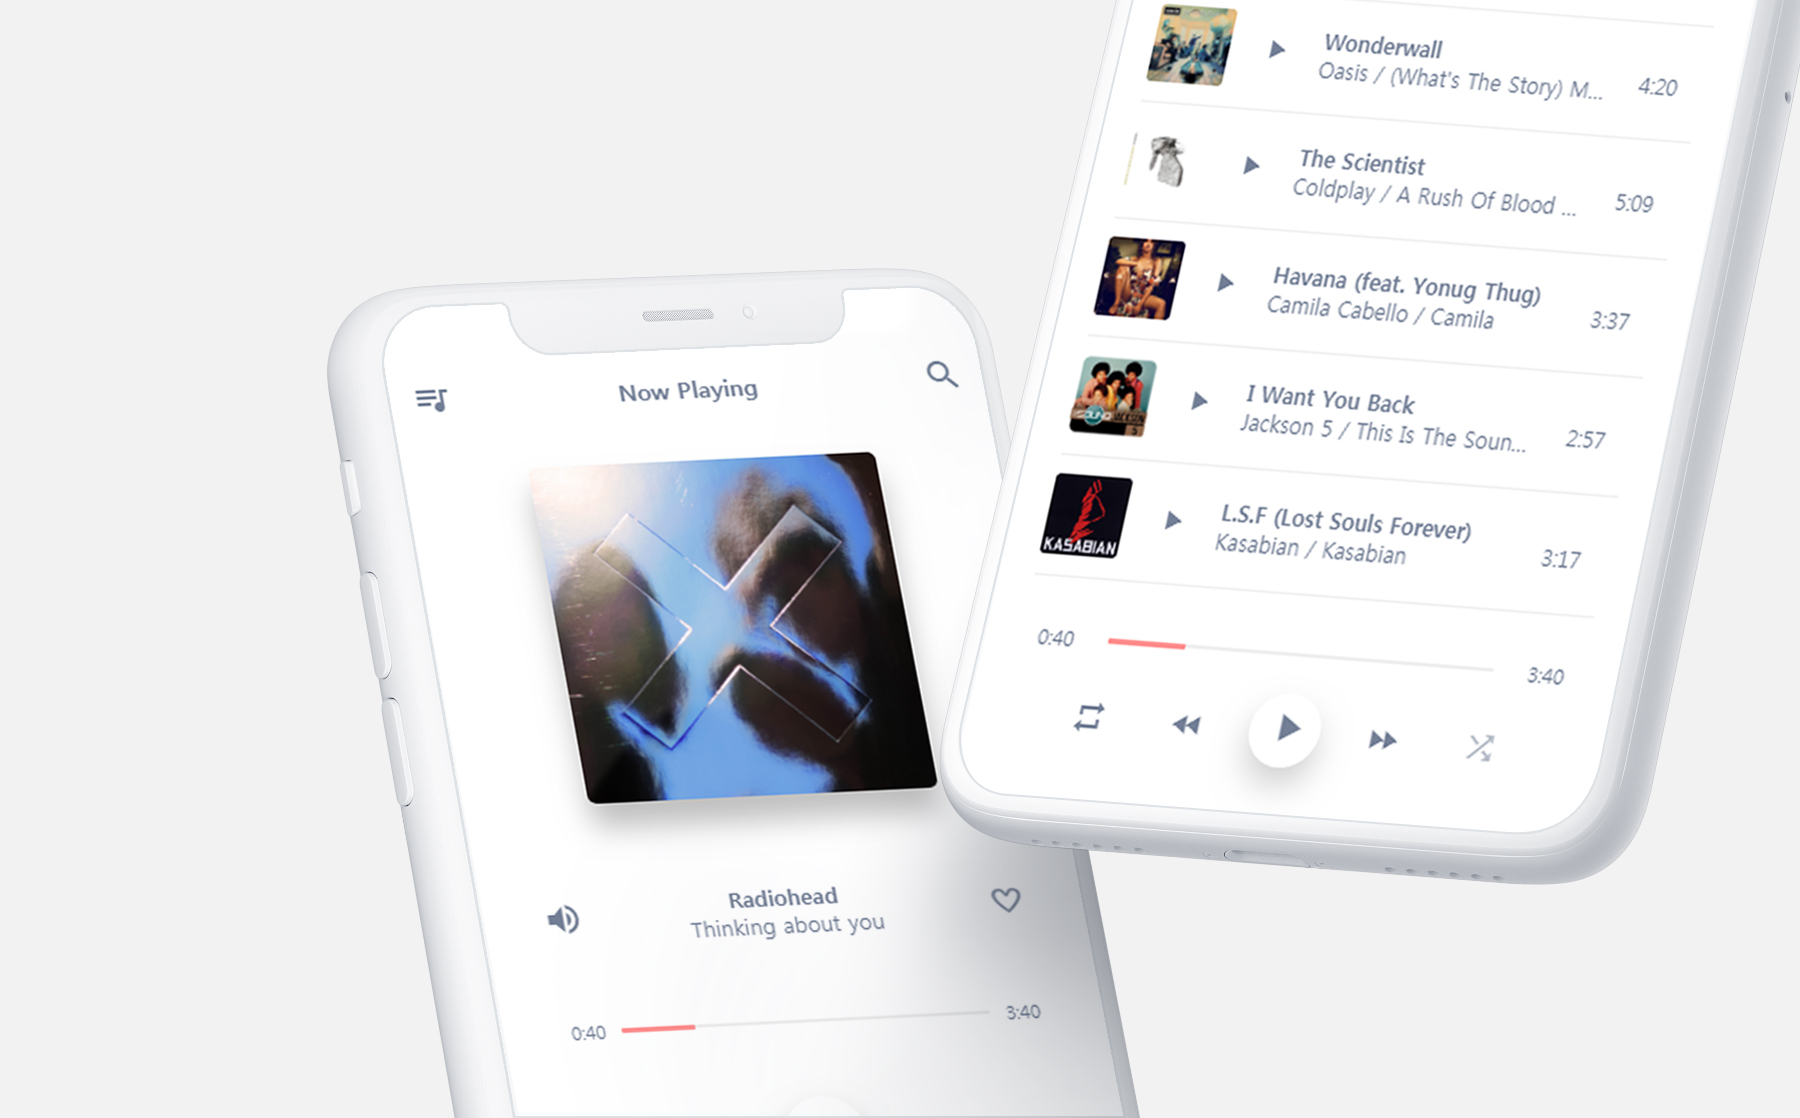
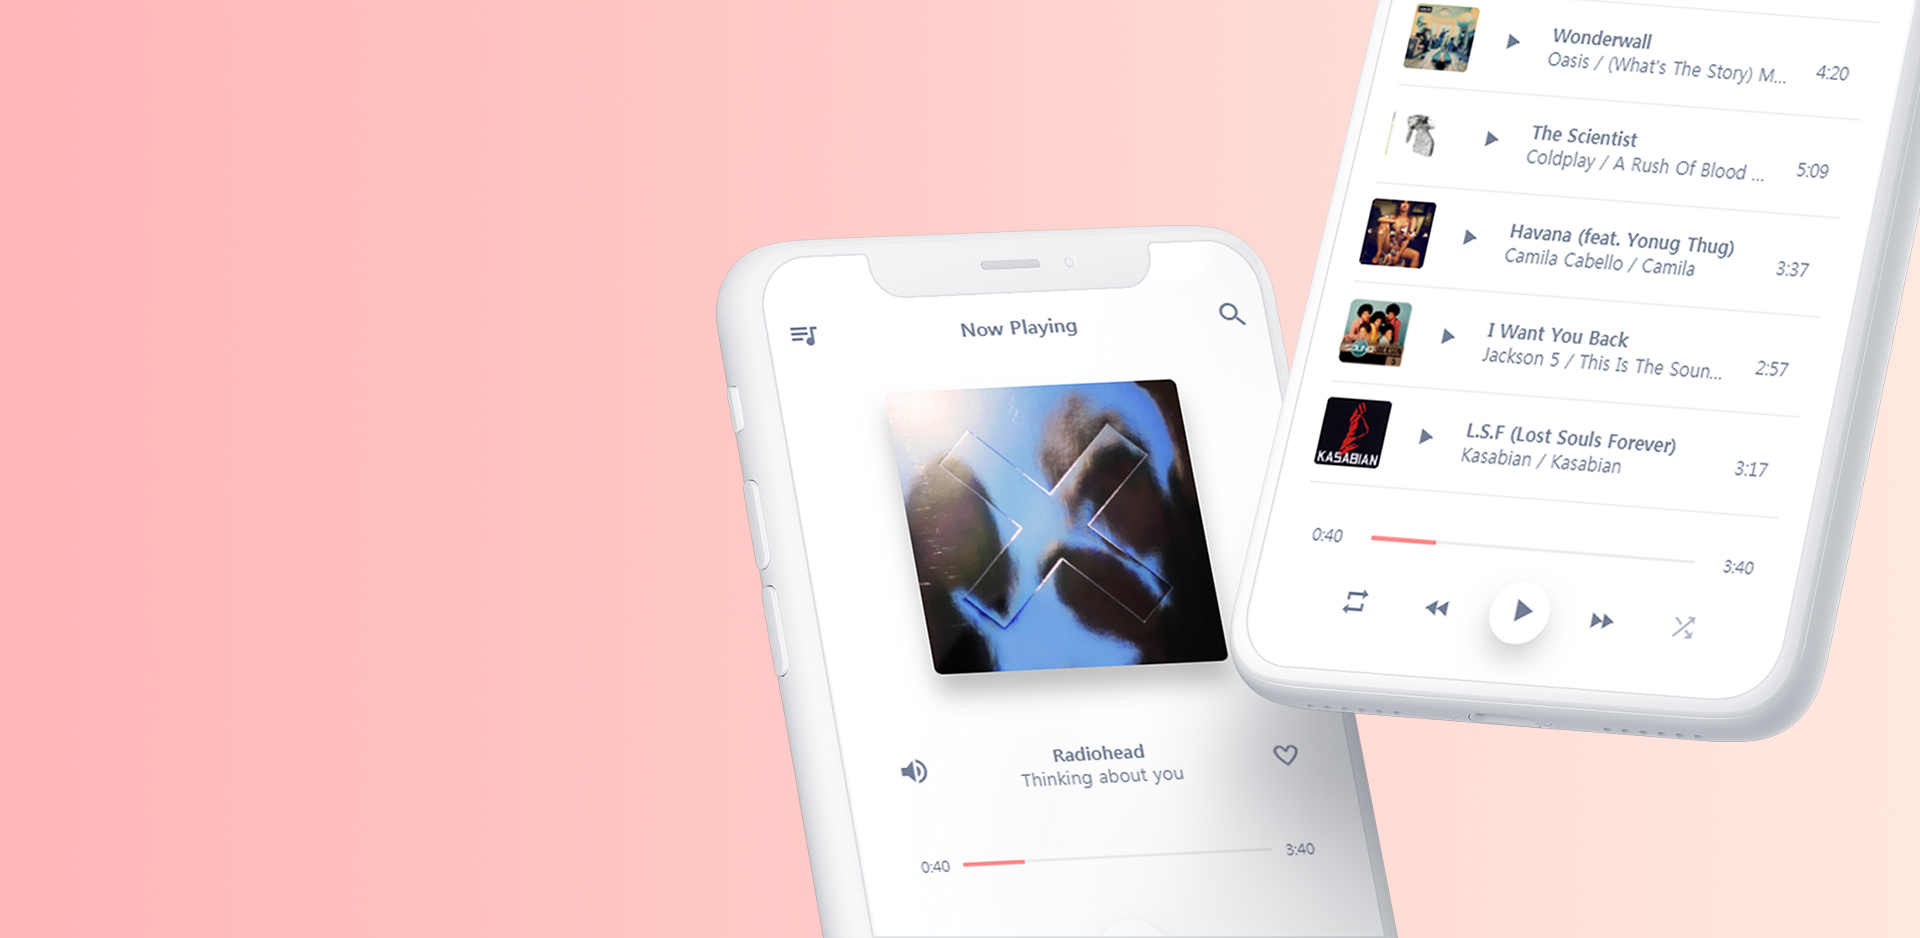
버튼 수정

diff --git a/css/portfolio.css b/css/portfolio.css
@@ -85,46 +85,73 @@ flex-direction: column;
   text-align: right;
   padding: 0 20px;
 }
-.overview-btn .menu {
+.more-link {
   position: relative;
-  border-top: 1px solid #e5e5e5;
-  padding-top: 20px;
-}
-.overview-btn .menu .menu-item {
-  float: none;
   display: inline-block;
-
+  cursor: pointer;
+  height: 50px;
+  line-height: 50px;
+  padding-right: 25px;
 }
-.overview-btn .menu .menu-item-name {
-  font-size: 13px;
+.more-link em {
+  font-style: normal;
+  margin-right: 8px;
+  transition: all .3s;
+  -webkit-transition: all .3s;
 }
-.overview-btn .menu .menu-item-name i { padding-left: 5px; font-size: 12px;}
-
-.btn-arrow i {
-  font-size: 11px;
-  background: #fb94a5;
-  color: #fff;
-  width: 23px;
-  height: 23px;
-  line-height: 23px;
-  border-radius: 50%;
-  text-align: center;
-  overflow: hidden;
-    display: inline-block;
-    position: absolute;
-    right: 0;
-    top: 50%;
-    margin-top: -14px;
-    height: 25px;
-    line-height: 25px;
-    width: 24px;
-    border-radius: 50px;
-    transition: all 0.33s cubic-bezier(0.12,0.75,0.4,1);
-    -webkit-transition: all 0.33s cubic-bezier(0.12,0.75,0.4,1);
-    box-shadow: 0px 9px 20px #ffdbdb;
-    transition: all .3s;
+.arrow {
+  width: 18px;
+  height: 16px;
+  display: inline-block;
+  position: relative;
+  top: 2px;
 }
-
+.arrow .line {
+  width: 18px;
+  height: 2px;
+  background: #ff1053;
+  left: 0;
+  backface-visibility: hidden;
+  letter-spacing: 0;
+  display: block;
+  content: ' ';
+  z-index: 100;
+  position: absolute;
+  top: 53%;
+  opacity: 0;
+  right: -10px;
+  cursor: pointer;
+  transform: translateY(-50%) translateX(-20px) translateZ(0);
+  -webkit-transform: translateY(-50%) translateX(-20px) translateZ(0);
+  transition: all .3s;
+  -webkit-transition: all .3s;
+  }
+.arrow i {
+  display: inline-block;
+  line-height: 50px;
+  font-size: 14px;
+  height: 50px;
+  color: #ff1053;
+  margin-left: 15px;
+  position: absolute;
+  right: 9px;
+  top: 51%;
+  -ms-transform: translateY(-50%);
+  -webkit-transform: translateY(-50%) translateZ(0);
+  transform: translateY(-50%) translateZ(0);
+  transition: all .3s;;
+  -webkit-transition: all .3s;
+}
+.more-link:hover em { color: #ff1053;}
+.more-link:hover .arrow .line {
+  opacity: 1;
+  transform: translateY(-50%) translateX(0px);
+  -webkit-transform: translateY(-50%) translateX(0px);
+}
+.more-link:hover .arrow i {
+  transform: translateX(12px) translateY(-50%);
+  -webkit-transform: translateX(12px) translateY(-50%);
+}
 
 
 /* 아이콘 디자인 */

diff --git a/sub-player.html b/sub-player.html
@@ -67,14 +67,13 @@
       </ul>
     </div>
 
-    <section class="sub-header" style="background-color: #f2f2f2;">
+    <section class="sub-header" style="background-image: url(images/thumb-player.jpg);">
       <div class="center">
         <div class="slide-bottom sub-header-title">
           <p style="color:#717171;">MOBILE /</p>
           <h3 style="background:#00000069; padding:5px 20px 0;">Mobile Music Player</h3><br>
           <h3 style="background:#00000069; padding:5px 20px 0;">UI Design</h3>
         </div>
-          <img src="images/header-player.png" alt="">
       </div>
     </section>
 
@@ -111,14 +110,19 @@
             </dd>
           </dl>
           <div class="col-md-12 col-sm-12 col-xs-12 slide-bottom overview-btn">
-            <div class="menu">
-              <a class="menu-item" href="https://sieunchoi.github.io/music-player/index" target="_blank">
-                <span class="menu-item-name">DEMO<i class="fas fa-arrow-right"></i></span>
-              </a>
-              <a class="menu-item" href="https://github.com/sieunchoi/music-player" target="_blank">
-                <span class="menu-item-name">CODE<i class="fas fa-arrow-right"></i></span>
-              </a>
-            </div>
+            <a class="more-link" href="https://sieunchoi.github.io/music-player/index" target="_blank">
+              <em>Demo</em>
+              <span class="arrow">
+                <span class="line"></span>
+                <i class="fas fa-chevron-right"></i>
+              </span>
+              <a class="more-link" href="https://github.com/sieunchoi/music-player" target="_blank">
+                <em>Code</em>
+                <span class="arrow">
+                  <span class="line"></span>
+                  <i class="fas fa-chevron-right"></i>
+                </span>
+            </a>
           </div>
         </div>
       </div>

diff --git a/sub-lcd.html b/sub-lcd.html
@@ -113,14 +113,19 @@
             </dd>
           </dl>
           <div class="col-md-12 col-sm-12 col-xs-12 slide-bottom overview-btn">
-            <div class="menu">
-              <a class="menu-item" href="https://sieunchoi.github.io/lcd/index" target="_blank">
-                <span class="menu-item-name">DEMO<i class="fas fa-arrow-right"></i></span>
-              </a>
-              <a class="menu-item" href="https://github.com/sieunchoi/lcd" target="_blank">
-                <span class="menu-item-name">CODE<i class="fas fa-arrow-right"></i></span>
-              </a>
-            </div>
+            <a class="more-link" href="https://sieunchoi.github.io/lcd/index" target="_blank">
+              <em>Demo</em>
+              <span class="arrow">
+                <span class="line"></span>
+                <i class="fas fa-chevron-right"></i>
+              </span>
+              <a class="more-link" href="https://github.com/sieunchoi/lcd" target="_blank">
+                <em>Code</em>
+                <span class="arrow">
+                  <span class="line"></span>
+                  <i class="fas fa-chevron-right"></i>
+                </span>
+            </a>
           </div>
         </div>
       </div>

diff --git a/sub-life.html b/sub-life.html
@@ -113,14 +113,19 @@
             </dd>
           </dl>
           <div class="col-md-12 col-sm-12 col-xs-12 slide-bottom overview-btn">
-            <div class="menu">
-              <a class="menu-item" href="https://sieunchoi.github.io/life/" target="_blank">
-                <span class="menu-item-name">DEMO<i class="fas fa-arrow-right"></i></span>
-              </a>
-              <a class="menu-item" href="https://github.com/sieunchoi/life" target="_blank">
-                <span class="menu-item-name">CODE<i class="fas fa-arrow-right"></i></span>
-              </a>
-            </div>
+            <a class="more-link" href="https://sieunchoi.github.io/life/index" target="_blank">
+              <em>Demo</em>
+              <span class="arrow">
+                <span class="line"></span>
+                <i class="fas fa-chevron-right"></i>
+              </span>
+              <a class="more-link" href="https://github.com/sieunchoi/life" target="_blank">
+                <em>Code</em>
+                <span class="arrow">
+                  <span class="line"></span>
+                  <i class="fas fa-chevron-right"></i>
+                </span>
+            </a>
           </div>
         </div>
       </div>

diff --git a/sub-nst.html b/sub-nst.html
@@ -111,14 +111,19 @@
             </dd>
           </dl>
           <div class="col-md-12 col-sm-12 col-xs-12 slide-bottom overview-btn">
-            <div class="menu">
-              <a class="menu-item" href="https://sieunchoi.github.io/nst/" target="_blank">
-                <span class="menu-item-name">DEMO<i class="fas fa-arrow-right"></i></span>
-              </a>
-              <a class="menu-item" href="https://github.com/sieunchoi/nst" target="_blank">
-                <span class="menu-item-name">CODE<i class="fas fa-arrow-right"></i></span>
-              </a>
-            </div>
+            <a class="more-link" href="https://sieunchoi.github.io/nst/index" target="_blank">
+              <em>Demo</em>
+              <span class="arrow">
+                <span class="line"></span>
+                <i class="fas fa-chevron-right"></i>
+              </span>
+              <a class="more-link" href="https://github.com/sieunchoi/nst" target="_blank">
+                <em>Code</em>
+                <span class="arrow">
+                  <span class="line"></span>
+                  <i class="fas fa-chevron-right"></i>
+                </span>
+            </a>
           </div>
         </div>
       </div>
